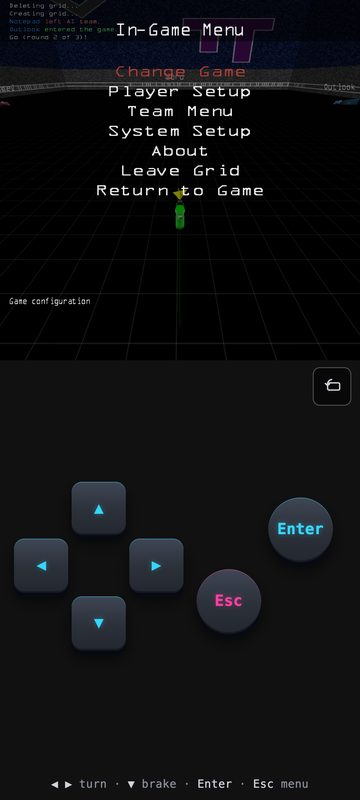
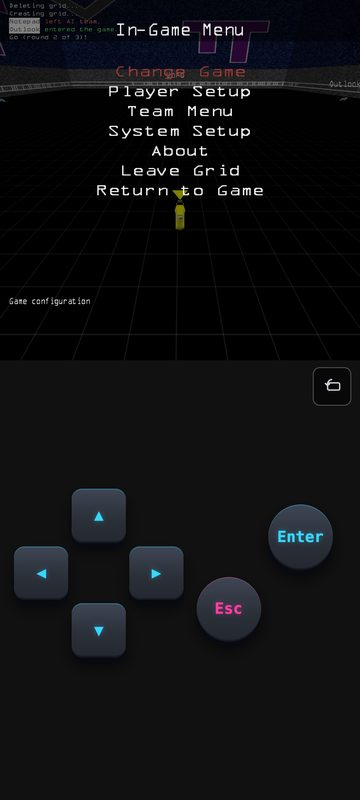
Remove the key legend under the menu pad
"◀ ▶ turn · ▼ brake · Enter · Esc menu" under the Game Boy pad: the
buttons carry their own names, and in menus the cross only moves the
highlight, so it described the driving pad, which isn't shown then.
The driving line ("hold picture: look around") stays. PB3 now checks
the menus show no text there; the README's menu screenshot is retaken.

diff --git a/web/shell.html b/web/shell.html
@@ -397,17 +397,16 @@
     #pad-ab { display:grid; grid-template-columns:repeat(2, var(--pad-ab)); grid-template-rows:repeat(2, var(--pad-ab)); gap:8px; }
     .pad-b { grid-area:2 / 1; }
     .pad-a { grid-area:1 / 2; }
-    /* The legend is the key map in one line, because "A" and "B" meant nothing
-       to the maintainer: the cross IS the arrow keys (Left/Right turn, Down
-       brakes -- the game's own cursor-keys binding), Enter and Esc are named
-       after the keys they send. It spans both columns at the bottom. */
+    /* THE LINE UNDER THE PAD. It used to be the key map ("◀ ▶ turn · ▼ brake ·
+       Enter · Esc menu"); the buttons carry their own names, and in menus the
+       cross only moves the highlight, so the menus show nothing here now.
+       While driving it says how to look around, the one thing the pad can't
+       show. It spans both columns at the bottom. */
     #pad-legend { grid-column:1 / -1; align-self:end; padding-top:.4rem;
                   color:#8a8f9c; font:400 min(.8rem, 3.4vw)/1.3 ui-monospace, Menlo, "Roboto Mono", monospace;
                   letter-spacing:.02em; white-space:nowrap; -webkit-user-select:none; user-select:none; }
     #pad-legend b { color:#cfd3dc; font-weight:400; }
-    /* While driving, Enter does nothing on the pad (see "ENTER ON THE PAD IS
-       A MENU KEY ONLY"), so the legend says how to look around instead. */
-    #touch.aa-driving #pad-legend .lg-menu,
+    /* Only while driving (CSS "THE DRIVING PAD"). */
     #touch:not(.aa-driving) #pad-legend .lg-drive { display:none; }
     /* THE LOOK ZONE covers the square, in the Game Boy layout, while driving.
        Its bottom quarter looks back, the halves above it look left and right
@@ -652,7 +651,7 @@
         <div id="dp-brake" class="pad-btn" aria-label="Brake">&#9660; hold to brake</div>
         <button type="button" id="dp-esc" class="pad-btn pad-b" aria-label="Escape: hold for the in-game menu">esc</button>
       </div>
-      <div id="pad-legend" aria-hidden="true"><span class="lg-menu"><b>&#9664; &#9654;</b> turn &middot; <b>&#9660;</b> brake &middot; <b>Enter</b> &middot; <b>Esc</b> menu</span><span class="lg-drive"><b>hold picture</b>: look around</span></div>
+      <div id="pad-legend" aria-hidden="true"><span class="lg-drive"><b>hold picture</b>: look around</span></div>
     </div>
     <!--
       M9, THE LAYOUT SWITCH. No data-aakey: it is a page control, not a key.
